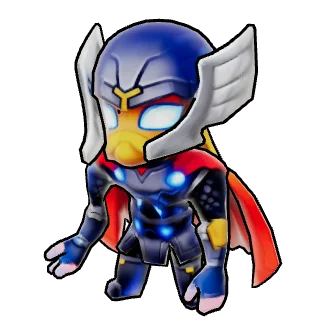
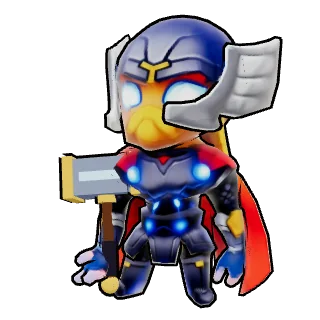
Brawl: Thor raises a hammer and calls lightning down instead of punching
- He carries a war hammer now (built in code, held in the right hand of his own model) and stands upright.
- His attack is no longer a swing: the arm goes up, a thread of lightning finds the hammer, and a bolt drops out of the sky onto his target
  and jumps to two more. He fights from range 3.5 and can hit flyers.
- Cut down to size: 1,500 health, 200 a bolt, arrival lightning 300 with a one second stun. In testing he wins about 70% against an
  ordinary card of his cost, down from 78%.
- New card picture with the hammer.

Claude-Session: https://claude.ai/code/session_01553PDU8sd3HscmWG3hFphE

diff --git a/brawl/rigs.js b/brawl/rigs.js
@@ -13,6 +13,7 @@ let rimFn = null; export const useRim = f => { rimFn = f; };
 const NATIVE = {m:2.2, l:4.0};            // how tall the two KayKit rigs stand, in their own units. Any other family is measured file by file.
 /* f: file. h: height on the field. fam: 'm' or 'l' = a KayKit rig that takes its clips from the shared library; none = the file has its own.
    walk / atk / idle / death / cheer: clip names. at: seconds one attack swing takes. rh / lh: what is in each hand. tint: recolour. fly: how high it hovers.
+   hold: something built from shapes for a T_ character's right hand (PROPS). raise: no swing; every attack lifts that hand to the sky instead.
    lift: how much of its own painted colour a dark model gives off, so it does not go to black in the shade. */
 const K = (f, h, atk, o = {}) => ({f, h, fam:'m', walk:'Walk', atk, ...o}), KL = (f, h, atk, o = {}) => ({f, h, fam:'l', walk:'Walk', atk, at:.85, ...o});
 const Q = (f, h, o = {}) => ({f, h, walk:'Walk', atk:'Punch', ...o}), R = (f, h, o = {}) => ({f, h, walk:'Walk', atk:'Attack', death:'Death', at:.7, ...o});
@@ -71,7 +72,7 @@ export const RIGS = {
   scald:T('Salamander', 1.7, {idle:'IdleB'}), razorback:T('LizardPunk', 1.5, {idle:'IdleB'}), kai:T('DragonKid', 1.35, {atk:'Kick', idle:'IdleB', at:.45}), spikeback:T('SpikeTurtle', 1.6), plum:F('PurpleDragon', 1.2, {atk:'Throw', at:.7, fly:1.3}),
   noir:S('CoatDuelist', 1.45, {atk:'Throw', idle:'IdleB', lift:.4}), onyx:S('HornNinja', 1.4, {atk:'Kick', idle:'IdleB', lift:.35}), midnight:T('HatRogue', 1.7, {idle:'IdleB', lift:.5}), prior:T('RedCultist', 1.9, {idle:'IdleB', lift:.4}),
   malgrave:F('PurpleWraith', 1.8, {atk:'Throw', at:.8, fly:1.2, lift:.4}), turnkey:F('KeyWraith', 1.9, {atk:'Throw', at:.9, fly:1.3, lift:.5}), auditor:T('HaloMan', 2.1, {lift:.55}), slagmaw:T('LavaDemon', 2.1, {idle:'IdleB', lift:.55}),
-  thor:T('Thor', 2.0, {idle:'IdleB', at:.55}), deathgod:T('Death', 2.5, {idle:'IdleB', lift:.6, at:.7}), zeus:C('Zeus', 2.1, {at:.8, lift:.3}),
+  thor:T('Thor', 2.0, {atk:'IdleB', hold:'hammer', raise:1}), deathgod:T('Death', 2.5, {idle:'IdleB', lift:.6, at:.7}), zeus:C('Zeus', 2.1, {at:.8, lift:.3}),
   nightmare:R('BlackHorse', 1.7, {walk:'Run', lift:.55, at:.6}), horseman:{f:'T_Horseman', h:2.5, gallop:true, lift:.4},
   jade:R('Dragon', 2.2, {lift:.25, at:.6, walk:'Idle', fly:1.6, flap:1}), emberwing:Q('Flying_Dragon', 1.2), elder:Q('Flying_Dragon_Evolved', 2.1), raptor:Q('Big_Dino', 1.5, {walk:'Run'}), kaiju:K('Monster', 1.7, 'Kick'), whelp:Q('Flying_Dragon', .7)
 };
@@ -79,6 +80,27 @@ const lib = {}, clips = {}, pending = {}, mats = new Map(), inks = new Map();
 let rack = null;                          // wp.glb: one named node per weapon
 const loader = new GLTFLoader(); loader.setMeshoptDecoder(MeshoptDecoder);
 const qa = new THREE.Quaternion(), qb = new THREE.Quaternion(), qc = new THREE.Quaternion(), va = new THREE.Vector3(), ZAX = new THREE.Vector3(0, 0, 1);
+/* Things a T_ character carries, built from shapes in the model's own units with the grip at the origin and the business end up +Y. top: how far up the head sits. */
+const pm = {}, pg = {};
+const PROPS = {
+  hammer(grad){                              // a war hammer: steel head with gold end caps and a strip of storm light, on a long wrapped handle
+    const mat = (k, c) => pm[k] || (pm[k] = k === 'glow' ? new THREE.MeshBasicMaterial({color:c}) : new THREE.MeshToonMaterial({color:c, gradientMap:grad}));
+    const geo = (k, f) => pg[k] || (pg[k] = f()), g = new THREE.Group();
+    const add = (gk, f, mk, c, y, z = 0, noInk) => { const m = new THREE.Mesh(geo(gk, f), mat(mk, c)); m.position.set(0, y, z); m.castShadow = true; m.frustumCulled = false; if (noInk) m.userData.noInk = true; g.add(m); return m; };
+    add('hShaft', () => new THREE.CylinderGeometry(.045, .052, .8, 10), 'wood', 0x6b4226, .17);
+    add('hWrap', () => new THREE.CylinderGeometry(.062, .062, .3, 10), 'wrap', 0x2e2a3a, -.03);
+    add('hPom', () => new THREE.SphereGeometry(.08, 10, 8), 'gold', 0xf2c14e, -.25);
+    add('hCol', () => new THREE.CylinderGeometry(.085, .085, .09, 10), 'gold', 0xf2c14e, .5);
+    add('hHead', () => new THREE.BoxGeometry(.32, .32, .58), 'steel', 0x8e9bb8, .68);
+    add('hCap', () => new THREE.BoxGeometry(.37, .37, .09), 'gold', 0xf2c14e, .68, .3); add('hCap', () => new THREE.BoxGeometry(.37, .37, .09), 'gold', 0xf2c14e, .68, -.3);
+    add('hGlow', () => new THREE.BoxGeometry(.335, .08, .4), 'glow', 0xbfeaff, .68, 0, true);
+    return {g, top:.68};
+  }
+};
+/* where a raised right arm points, in the body's own space (its right is -X, up is +Y, forward is +Z): out past a big head, then up */
+const ARM_UP = new THREE.Vector3(-.8, .58, .12).normalize(), FORE_UP = new THREE.Vector3(-.42, .9, .1).normalize(), vd = new THREE.Vector3();
+const UPR = new THREE.Quaternion().setFromAxisAngle(ZAX, .14).multiply(new THREE.Quaternion().setFromAxisAngle(new THREE.Vector3(0, 1, 0), Math.PI / 2));      // upright, head side on to the lane, tipped a little away from the body
+const smooth = x => x <= 0 ? 0 : x >= 1 ? 1 : x * x * (3 - 2 * x);
 /* how tall a model stands as loaded, and how far below (or above) its own origin its feet are: some files are built around their middle, not their feet.
    A skinned mesh is measured through its skeleton: its raw vertices can be in other units entirely. */
 const tb = new THREE.Box3(), tb2 = new THREE.Box3();
@@ -152,6 +174,8 @@ export function makeRig(key, o, grad, extras){
     const b = extras.bighead(); root.updateMatrixWorld(true);
     b.quaternion.copy(head.getWorldQuaternion(qa).invert()); b.position.copy(head.worldToLocal(head.getWorldPosition(va).add(new THREE.Vector3(0, .62 * sc, 0)))); b.scale.setScalar(1.1); b.userData.noInk = true; head.add(b);
   }
+  let prop = null, hand = null;
+  if (def.hold && PROPS[def.hold]){ root.traverse(n => { if (n.isBone && n.name === 'RightHand') hand = n; }); if (hand){ prop = PROPS[def.hold](grad); hand.add(prop.g); } }
   if (o && o.ink){
     const INK = inkFor(clamp(.021 / sc, .004, .2)), list = [];
     root.traverse(n => { if (!n.isMesh || !n.visible || Array.isArray(n.material)) return; for (let q = n; q && q !== root; q = q.parent) if (q.userData.noInk) return; list.push(n); });
@@ -194,15 +218,47 @@ export function makeRig(key, o, grad, extras){
   const ws = def.ws || (def.walk === 'Run' ? 1.9 : 1.05);        // the ground speed the walk clip was made for
   let cur = null, last = 0, lastAtk = 99;
   const go = (a, fade) => { if (cur === a) return; if (cur) cur.fadeOut(fade); a.reset().setEffectiveWeight(1).fadeIn(fade).play(); cur = a; };
-  idle.time = Math.random() * ic.duration; go(idle, 0);
-  return {g, h:H, fly, rig:true, die(){ if (death){ state = 'dead'; go(death, .08); } return !!death; }, cheer(){ if (cheer && state !== 'dead'){ state = 'cheer'; go(cheer, .15); } }, anim(t, s){
+  go(idle, 0);
+  /* Something held: stood upright in the hand as the idle clip has it, whatever way that bone's own axes point. With raise, an attack is not a swing:
+     the arm goes up and the thing in its hand is held to the sky. Bones are turned in the body's own space, so this works on any of these skeletons. */
+  const inBody = (b, out) => { out.identity(); for (let p = b; p && p !== root; p = p.parent) out.premultiply(p.quaternion); return out; };
+  let lift = null, tip = null;
+  if (prop){
+    mixer.update(0);                                                   // the idle pose, now
+    const fore = hand.parent, arm = fore.parent, pinv = new THREE.Quaternion();
+    prop.g.quaternion.copy(inBody(hand, qa).invert()).multiply(UPR); pinv.copy(prop.g.quaternion).invert();
+    prop.g.position.copy(vd.set(0, 1, 0).applyQuaternion(prop.g.quaternion)).multiplyScalar(-.04);      // the fist closes round the handle a little above its end
+    tip = v => { prop.g.updateWorldMatrix(true, false); return prop.g.localToWorld(v.set(0, prop.top, 0)); };
+    if (def.raise && fore.isBone && arm.isBone){
+      const chain = [arm, fore, hand].map(b => ({b, base:b.quaternion.clone(), out:b.quaternion.clone()})); let up = false;
+      const aim = (b, child, dir, k) => {                               // turn this bone so the next joint along lies in that direction
+        vd.copy(child.position).normalize().applyQuaternion(inBody(b, qa)); qb.setFromUnitVectors(vd, dir).multiply(qa);
+        b.quaternion.slerp(inBody(b.parent, qc).invert().multiply(qb), k); };
+      lift = a => {
+        const k = a < .16 ? smooth(a / .16) : a < .62 ? 1 : a < .95 ? 1 - smooth((a - .62) / .33) : 0;
+        if (k <= 0 && !up) return;
+        for (const j of chain){ if (!j.b.quaternion.equals(j.out)) j.base.copy(j.b.quaternion); j.b.quaternion.copy(j.base); }      // from where the clip has the arm, not from last frame's lift
+        if (k > 0){
+          aim(arm, fore, ARM_UP, k); aim(fore, hand, FORE_UP, k);
+          hand.quaternion.slerp(inBody(fore, qc).invert().multiply(qb.copy(UPR).multiply(pinv)), k);      // the hand: wherever it must be for the hammer to stand straight up
+        }
+        up = k > 0; for (const j of chain) j.out.copy(j.b.quaternion);
+      };
+    }
+  }
+  idle.time = Math.random() * ic.duration;
+  return {g, h:H, fly, rig:true, tip, die(){ if (death){ state = 'dead'; go(death, .08); } return !!death; }, cheer(){ if (cheer && state !== 'dead'){ state = 'cheer'; go(cheer, .15); } }, anim(t, s){
     const dt = Math.min(.1, Math.max(0, t - last)); last = t;
     if (state){ mixer.update(dt); return; }
-    if (s.atk < lastAtk){ if (cur === atk) atk.reset().play(); else go(atk, .06); }
-    lastAtk = s.atk;
-    if (s.atk >= at) go(s.mv && walk !== idle ? walk : idle, .14);
+    if (lift) go(s.mv && walk !== idle ? walk : idle, .14);            // he stands his ground: the arm does the work
+    else {
+      if (s.atk < lastAtk){ if (cur === atk) atk.reset().play(); else go(atk, .06); }
+      lastAtk = s.atk;
+      if (s.atk >= at) go(s.mv && walk !== idle ? walk : idle, .14);
+    }
     if (cur === walk) walk.timeScale = Math.max(.7, Math.min(2.4, (s.spd || 1.3) / ws)) * (s.chg ? 1.6 : 1);     // feet keep pace with the ground speed
     mixer.update(dt);
+    if (lift) lift(s.atk);
     if (wings.length){ flap(t, s.mv); root.position.y = y0 + Math.sin(t * 2.3 + idle.time) * .07; }
   }};
 }

diff --git a/brawl/view.js b/brawl/view.js
@@ -7,9 +7,9 @@ import { EffectComposer } from './vendor/postprocessing/EffectComposer.js';
 import { RenderPass } from './vendor/postprocessing/RenderPass.js';
 import { UnrealBloomPass } from './vendor/postprocessing/UnrealBloomPass.js';
 import { OutputPass } from './vendor/postprocessing/OutputPass.js';
-import { makeModel, basketball, M, TEAM, TX, outline } from './models.js?v=1115n';
-import { UNITS, MAPS, CARDS, TRAP_ART } from './cards.js?v=1115n';
-import { W, L, RIVER, TRIG, riverOf } from './sim.js?v=1115n';
+import { makeModel, basketball, M, TEAM, TX, outline } from './models.js?v=1115p';
+import { UNITS, MAPS, CARDS, TRAP_ART } from './cards.js?v=1115p';
+import { W, L, RIVER, TRIG, riverOf } from './sim.js?v=1115p';
 
 const PI = Math.PI, clamp = (v, a, b) => v < a ? a : v > b ? b : v, lerp = (a, b, t) => a + (b - a) * t;
 const angTo = (a, b, k) => { let d = (b - a) % (PI * 2); if (d > PI) d -= PI * 2; if (d < -PI) d += PI * 2; return a + d * k; };
@@ -750,7 +750,7 @@ export function createView(el, opt = {}){
   }
   function stepZaps(dt){ for (let i = zaps.length - 1; i >= 0; i--){ const z = zaps[i]; z.t += dt; const k = z.t / z.life; if (k >= 1){ root.remove(z.m); z.m.material.dispose(); zaps.splice(i, 1); continue; } z.m.material.opacity = .95 * (1 - k); const w = z.w * (1 + Math.sin(time * 90) * .35); z.m.scale.x = z.m.scale.y = w; } }
   /* lightning out of the sky onto one spot */
-  function strike(x, z, y = 0){ va.set(x + (Math.random() - .5) * 3, 16, z + (Math.random() - .5) * 3); vb.set(x, y + .2, z); const mid = va.clone().lerp(vb, .5); mid.x += (Math.random() - .5) * 1.6; mid.z += (Math.random() - .5) * 1.6; zapLine(va, mid, 0xfff7b0, .16, .3); zapLine(mid, vb, 0xfff7b0, .16, .3); flat(x, z, {r0:.3, r1:2, dur:.35, color:0xfff27a, add:true}); burst(x, .4, z, 22, 0xfff27a, {spd:6, up:4, life:.5}); shake(.4); }
+  function strike(x, z, y = 0, k = 1){ va.set(x + (Math.random() - .5) * 3, 16, z + (Math.random() - .5) * 3); vb.set(x, y + .2, z); const mid = va.clone().lerp(vb, .5); mid.x += (Math.random() - .5) * 1.6; mid.z += (Math.random() - .5) * 1.6; zapLine(va, mid, 0xfff7b0, .16 * k, .3); zapLine(mid, vb, 0xfff7b0, .16 * k, .3); flat(x, z, {r0:.3, r1:2 * k, dur:.35, color:0xfff27a, add:true}); burst(x, y + .4, z, Math.round(22 * k), 0xfff27a, {spd:6 * k, up:4 * k, life:.5}); shake(.4 * k * k); }      // k: a smaller bolt for an everyday attack
   const TRAIL = {fire:0xff8a2b, magic:0x6dff9a, beam:0xaad8ff, ball:0xffc27a, coffee:0xb07a4a, flag:0xffe27a, water:0x9fe0ff, laser:0xff5a8a, potion:0xff7ad0, leaf:0x7ccf4a, ink:0x5a3a8a, zap:0xfff27a, fball:0xff8a2b, met:0xff6a1f, bomb:0x8a8f9c, ice:0xbfe9ff, shell:0x8a8f9c, vial:0x8dff5a},
     HITC = {ball:0xffb070, coffee:0x8a5a34, flag:0xffe27a, water:0x8fd8ff, fire:0xff8a2b, magic:0x6dff9a, beam:0xdff2ff, arrow:0xe9d8b4, bolt:0xcfd5e2, laser:0xff5a8a, bullet:0xffe9a8, spit:0xd9f2c4, rock:0xa89a86, potion:0xff7ad0, leaf:0x7ccf4a, sting:0xffd23f, ink:0x5a3a8a, candy:0xff8a9a, bomb:0xff8a2b, zap:0xfff27a, fball:0xff8a2b, met:0xff6a1f, ice:0xdff5ff, shell:0xff8a2b, vial:0x7dff5a};
   function shoot(kind, from, to, dur, o = {}){
@@ -803,7 +803,7 @@ export function createView(el, opt = {}){
     for (const ev of list){
       if (ev.e === 'drop'){ if (ev.rar === 'l') legend(ev.x, ev.z); else if (ev.rar === 'g') legend(ev.x, ev.z, 0xdff4ff, 1.7); }
       else if (ev.e === 'chain'){ for (let i = 1; i < ev.pts.length; i++){ const a = ev.pts[i - 1], b = ev.pts[i]; va.set(a[0], a[2] ? 2.2 : .9, a[1]); vb.set(b[0], b[2] ? 2.2 : .9, b[1]); zapLine(va.clone(), vb.clone(), 0xbfe8ff, .06, .2); } }
-      else if (ev.e === 'bolt'){ for (const p of ev.pts) strike(p[0], p[1]); }
+      else if (ev.e === 'bolt'){ ev.pts.forEach((p, i) => { if (ev.q) setTimeout(() => strike(p[0], p[1], p[2] ? 2 : 0, i ? .5 : .7), i * 70); else strike(p[0], p[1]); }); }      // q: a hammer's bolts, one after another down the line
       else if (ev.e === 'godfall'){                                // a god has arrived: every enemy on the field is hit at once
         shake(1.1); skyT = .45; skyC = ev.k === 'smite' ? 1.5 : .7;
         ev.pts.forEach((p, i) => setTimeout(() => {
@@ -819,6 +819,11 @@ export function createView(el, opt = {}){
         if (U.splash && U.rng <= 1.5 && t){ flat(t.x, t.z, {r0:.3, r1:U.splash, dur:.35, color:0xffd28a, add:true, a:.7}); burst(t.x, .2, t.z, 12, 0xffd28a, {spd:4, up:2, life:.4}); shake(.25); }
       } else if (ev.e === 'shot'){
         const r = recs.get(ev.id), t = recs.get(ev.t); if (!r || !t) continue;
+        if (ev.k === 'sky'){                                       // nothing flies: the hammer goes up, a thread of lightning finds it, and the bolts land with the hit
+          setTimeout(() => { if (recs.get(ev.id) !== r) return; const p = r.m.tip ? r.m.tip(new THREE.Vector3()) : new THREE.Vector3(r.x, r.m.h + .6, r.z);
+            zapLine(new THREE.Vector3(p.x + (Math.random() - .5) * 1.4, 15, p.z + (Math.random() - .5) * 1.4), p, 0xbfe8ff, .05, .24); burst(p.x, p.y, p.z, 10, 0xdff4ff, {spd:3, up:1.5, life:.35}); }, 190);
+          continue;
+        }
         const U = r.e.U, th = t.m.h * .5 + (t.m.fly || 0);
         va.set(r.x, U.twr ? (r.e.key === 'king' ? 3.6 : 2.6) : r.m.h * .7 + (r.m.fly || 0), r.z); vb.set(t.x, th, t.z);
         burst(va.x, va.y, va.z, 4, 0xfff1c4, {spd:1.6, up:.6, life:.2, grav:0});

diff --git a/brawl/main.js b/brawl/main.js
@@ -1,11 +1,11 @@
 /* Break Room Brawl: screens, saves, the match loop and online play. Rules live in sim.js, drawing in view.js. */
 import { CARDS, CARD_IDS, BASE_IDS, baseName, baseOf, UNITS, AFF, AFF_IDS, RAR, RAR_IDS, TYPES, TYPE_IDS, typeBonus, typeCount, SET_AT, SET_MUL, ROLE_NAME, MAPS, MAP_IDS, DECK_SIZE, HAND, MAX_LEGEND, MAX_GOD, DECK_SLOTS, MAX_LVL, START_COINS, FREE_RARES,
-  lvlMul, upgradeCost, deckProblem, DRAW_W, weightedPick, rollCard, crateRoll, STARTER_DECKS, SKILLS, randomCpu, ladderCpu, levelPrize, tierOf, LEVELS, TIERS, PACKS, TYPE_PACK, openPack, THEME_DECKS, PERKS, PERK_IDS, unitsOf } from './cards.js?v=1115n';
-import { createSim, decodeEnts, decodeTraps, canPlace, DT, MAX_EL, manaRate, PATIENT, TRIG } from './sim.js?v=1115n';
-import { createAI } from './ai.js?v=1115n';
-import { Accounts, fresh, sanitize, isOwner } from './store.js?v=1115n';
-import { Cloud, cloudWhy } from './cloud.js?v=1115n';
-import { sayFor, sayWhen } from './talk.js?v=1115n';
+  lvlMul, upgradeCost, deckProblem, DRAW_W, weightedPick, rollCard, crateRoll, STARTER_DECKS, SKILLS, randomCpu, ladderCpu, levelPrize, tierOf, LEVELS, TIERS, PACKS, TYPE_PACK, openPack, THEME_DECKS, PERKS, PERK_IDS, unitsOf } from './cards.js?v=1115p';
+import { createSim, decodeEnts, decodeTraps, canPlace, DT, MAX_EL, manaRate, PATIENT, TRIG } from './sim.js?v=1115p';
+import { createAI } from './ai.js?v=1115p';
+import { Accounts, fresh, sanitize, isOwner } from './store.js?v=1115p';
+import { Cloud, cloudWhy } from './cloud.js?v=1115p';
+import { sayFor, sayWhen } from './talk.js?v=1115p';
 import { openTransport } from '../chess/net.js';
 
 const $ = id => document.getElementById(id), Q = new URLSearchParams(location.search), BDB = window.BDB;
@@ -57,6 +57,7 @@ const SND = {drop:() => tone(190, .14, 'triangle', .09, -90), spell:() => tone(5
   trapSet:() => tone(150, .1, 'triangle', .07, -50), trap:() => { tone(880, .07, 'square', .045); tone(1320, .16, 'square', .045, 0, .07); tone(110, .3, 'sawtooth', .06, -40, .05); }, negate:() => { tone(1700, .09, 'sine', .07); tone(1500, .32, 'sine', .07, -700, .1); },
   rip:() => { tone(900, .16, 'sawtooth', .05, -700); tone(140, .3, 'triangle', .08, -60, .08); [660, 880, 1175].forEach((f, i) => tone(f, .22, 'triangle', .05, 0, .16 + i * .07)); },
   legend:() => { [392, 523, 659, 784, 1046].forEach((f, i) => tone(f, .5, 'triangle', .07, 0, i * .09)); tone(98, .9, 'sawtooth', .06, -30); },
+  crack:() => { tone(1500, .07, 'sawtooth', .035, -1200); tone(80, .22, 'sawtooth', .05, -35, .03); },
   god:() => { tone(55, 1.6, 'sawtooth', .1, -18); tone(82, 1.2, 'square', .05, -40, .05); [262, 392, 523, 784, 1046, 1568].forEach((f, i) => tone(f, .9, 'triangle', .07, 0, .1 + i * .11)); tone(1800, .25, 'sawtooth', .04, -1500, .02); }};
 
 /* ---------- the 3D view (menus work without it: card art is a set of pictures) ---------- */
@@ -65,7 +66,7 @@ const NOVIEW = Q.get('noview') === '1';
 async function initView(){
   if (NOVIEW) return;
   try {
-    const [vw, md] = await Promise.all([import('./view.js?v=1115n'), import('./models.js?v=1115n')]);
+    const [vw, md] = await Promise.all([import('./view.js?v=1115p'), import('./models.js?v=1115p')]);
     await md.preload(); MD = md;
     V = vw.createView($('arena'), {low:SMALL, reduced:BDB.reduced, numbers:true, pid:() => B ? B.me : -1, gfx:Q.get('gfx') != null ? +Q.get('gfx') : null, onGfx:() => { if (curTab === 'Profile' && !B) gfxUI(); }});
     ready3d = true;
@@ -208,6 +209,7 @@ function abil(U, m = 1){
   if (U.burn) a.push(`Sets targets on fire: ${d(U.burn.dps)} a second for ${sec(U.burn.t)}.`);
   if (U.psn) a.push(`Poisons targets: ${d(U.psn.dps)} a second for ${sec(U.psn.t)}.`);
   if (U.mark) a.push(`Marks targets for ${sec(U.mark.t)}. Marked targets take 30% more damage from everyone.`);
+  if (U.shot === 'sky') a.push('Does not swing: the hammer goes up and a bolt drops out of the sky onto the target, flyers included.');
   if (U.chain) a.push(`Each attack jumps to ${U.chain.n} more ${U.chain.n === 1 ? 'target' : 'targets'}.`);
   if (U.steal) a.push(`Heals itself for ${pc(U.steal)} of the damage it deals.`);
   if (U.leech) a.push('Every hit on a tower steals Mana for you.');
@@ -835,6 +837,7 @@ function onEvents(ev){
       else e.e === 'drop' ? SND.drop() : SND.spell();
       if (c && e.e === 'drop' && e.u && c.kind === 'unit' && (c.rar !== 'c' || Math.random() < .6)){ const uid = e.u, line = sayFor(c.base, c.type), mine = e.team === B.team, big = c.rar === 'l' || c.rar === 'e' || c.rar === 'g'; setTimeout(() => { if (B && !B.over) bubble(uid, line, mine, big); }, 420); }
     } else if (e.e === 'boom' && e.k !== 'rage') SND.boom();
+    else if (e.e === 'bolt' && e.q) SND.crack();
     else if (e.e === 'grow'){ if (Math.random() < .45) bubble(e.id, sayWhen('kill'), true); }
     else if (e.e === 'revive'){ bubble(e.id, sayWhen('low'), true); }
     else if (e.e === 'trapset'){ if (e.team === B.team) SND.trapSet(); else { note(B.mode === 'cpu' ? 'He set a trap' : 'They set a trap'); if (B.mode === 'cpu') talk(TALK.trapSet); } }

diff --git a/brawl/sim.js b/brawl/sim.js
@@ -1,12 +1,12 @@
 /* Break Room Brawl: the battle rules. No DOM, no drawing. One sim runs per match (on the host when online);
    screens read its entities and events. Team 0 defends z > 0, team 1 defends z < 0. */
-import { UNITS, CARDS, MAPS, lvlMul, unitVar, HAND, AFF_IDS, typeBonus } from './cards.js?v=1115n';
+import { UNITS, CARDS, MAPS, lvlMul, unitVar, HAND, AFF_IDS, typeBonus } from './cards.js?v=1115p';
 
 export const TPS = 20, DT = 1 / TPS, W = 9, L = 21, RIVER = 1;      // a long field: more ground to cover, more time to react
 export const riverOf = map => map.river ? map.rw || RIVER : 0;      // how far the river reaches either side of the halfway line: a painted map brings its own
 export const MATCH = 600, OVERTIME = 60, MANA_STEP = 120, MAX_EL = 10, SIGHT = 6.5, HELP = 9.5;   // a 10 minute match. Mana comes in faster every two minutes: x1, x1.5, x2, x2.5, then x3 for the last two
 export const TOWER_AT = [['king', 0, L - 3], ['princess', -5.5, L - 6.5], ['princess', 5.5, L - 6.5]];
-const DEPLOY = TPS, PROJ_SPD = 11;
+const DEPLOY = TPS, PROJ_SPD = 11, SKY_WIND = .45;      // SKY_WIND: how long a hammer is in the air before the sky answers it
 export const PATIENT = 3 * TPS;
 export const MAX_TRAPS = 3, TRIG = 1.1;            // traps each player can have face down at once, and how close a troop has to step to spring one
 const clamp = (v, a, b) => v < a ? a : v > b ? b : v;
@@ -274,7 +274,7 @@ export function createSim({map:mapId, decks, seed = 1, elMul = [1, 1], towerLvl 
     const p = {tgt:t.id, x:t.x, z:t.z, dmg, splash:U.splash || 0, team:e.team, air:!!U.air, src:e.id, u:U, lv:lvlMul(e.lvl), st};
     if (U.eject && e.hits % U.eject.every === 0 && !t.U.bld && t.U.r < .9) p.eject = 1;      // red card
     if (U.shot && U.rng > 1.5){
-      const d = U.shot === 'shell' ? 1.3 : clamp((gap(e, t) + e.U.r) / PROJ_SPD, .14, .9);      // a mortar shell goes up before it comes down
+      const d = U.shot === 'sky' ? SKY_WIND : U.shot === 'shell' ? 1.3 : clamp((gap(e, t) + e.U.r) / PROJ_SPD, .14, .9);      // nothing flies from a raised hammer: the bolt lands when it lands. A mortar shell goes up before it comes down
       p.t = T(U.shot === 'beam' || U.shot === 'zap' ? .08 : d);
       emit({e:'shot', id:e.id, t:t.id, d:U.shot === 'beam' || U.shot === 'zap' ? .08 : d, k:U.shot});
     } else { p.t = T(U.wind ?? .24); p.melee = 1; }       // a melee hit lands when the swing does, and not at all if the attacker drops first
@@ -309,15 +309,17 @@ export function createSim({map:mapId, decks, seed = 1, elMul = [1, 1], towerLvl 
       if (u.leech && t.U.twr){ const pl = players[src.pid]; if (pl){ pl.el = Math.min(MAX_EL, pl.el + u.leech); emit({e:'mana', id:src.id, amt:u.leech, pid:src.pid, steal:1}); } }
     }
     if (p.eject && t.hp > 0 && !t.U.twr){ t.x = clamp(t.x * .45, -2.6, 2.6); t.z = (t.team === 0 ? 1 : -1) * (L - 5.6); t.frz = Math.max(t.frz, T(1)); t.tgt = 0; t.lock = false; t.run = 0; t.chg = false; t.lp = 0; emit({e:'warp', id:t.id, x:t.x, z:t.z}); }      // sent off: back to its own king tower
-    if (u.chain){                                                           // the bolt jumps on to whoever is nearest, a little weaker each time
+    const sky = u.shot === 'sky';
+    if (u.chain || sky){                                                    // the bolt jumps on to whoever is nearest, a little weaker each time
       const done = new Set([t.id]), pts = [[t.x, t.z, t.U.fly ? 1 : 0]]; let from = t, d = p.dmg;
-      for (let i = 0; i < u.chain.n; i++){
+      for (let i = 0; i < (u.chain ? u.chain.n : 0); i++){
         let nx = null, nd = u.chain.r;
         for (const o of ents){ if (o.team === p.team || o.hp <= 0 || o.dep > 0 || o.hid || done.has(o.id) || (o.U.fly && !p.air)) continue; const q = Math.hypot(o.x - from.x, o.z - from.z); if (q <= nd){ nd = q; nx = o; } }
         if (!nx) break;
         d *= u.chain.fall; done.add(nx.id); pts.push([nx.x, nx.z, nx.U.fly ? 1 : 0]); hurt(nx, d, src); afflict(nx, u, p.lv, src, p.st); from = nx;
       }
-      if (pts.length > 1) emit({e:'chain', pts});
+      if (sky) emit({e:'bolt', pts, q:1});                                // called down from the sky: every one of them gets a bolt of its own
+      else if (pts.length > 1) emit({e:'chain', pts});
     }
   }
   /* a unit finishes dropping in: whatever it does on arrival happens now */

diff --git a/brawl/cards.js b/brawl/cards.js
@@ -270,7 +270,7 @@ const ROSTER = [
   ['mascot', 'The Mascot', 'crew', 'r', 'giant', 5, 1, {}, 'Huge, slow and only interested in buildings. Protect him and towers fall.'],
   ['bdb', 'Five-Star BDB', 'crew', 'l', 'tank', 6, 1, {splash:1.7, dm:1.81, hm:1.26, rng:1, spd:1.2, r:.9, land:{r:2.6, dmg:140, push:1}}, 'The prospect himself. Huge health, a landing that clears space, and a slam that hits everything around him.'],
   /* ----- Gods: one to a deck, and each does something to the whole field ----- */
-  ['thor', 'Thor, God of Thunder', 'order', 'g', 'bruiser', 7, 1, {smite:{dmg:400, stun:1.5, twr:.4}, chain:{n:4, r:3.4, fall:.85}, stun:{every:3, t:.8}, hm:.952, dm:1.1, r:.7, spd:1.45}, 'He arrives and lightning hits every enemy on the field at once, wherever it stands, and stops it dead for a moment. After that his fists carry the storm: every blow jumps to four more.'],
+  ['thor', 'Thor, God of Thunder', 'order', 'g', 'caster', 7, 1, {smite:{dmg:300, stun:1, twr:.3}, chain:{n:2, r:3, fall:.6}, stun:{every:4, t:.6}, splash:0, shot:'sky', rng:3.5, hm:2.52, dm:.866, r:.7, spd:1.3}, 'He arrives and lightning hits every enemy on the field at once, wherever it stands, and stops it dead for a moment. After that he fights from where he stands: up goes the hammer, and a bolt drops out of the sky onto his target and jumps to two more.'],
   ['deathgod', 'Death', 'dark', 'g', 'bruiser', 7, 1, {reap:.25, land:{r:3.4, summon:{u:'skel', n:20}}, raise:{u:'skel', r:99, max:26, cd:.5}, splash:1.3, hm:1.05, dm:.75, r:.75, spd:1.15}, 'Arrives in a ring of twenty skeletons, and every enemy troop on the field loses a quarter of its health on the spot. From then on whatever dies, anywhere, on either side, gets up as one of his.'],
   ['zeus', 'Zeus, King of Olympus', 'arcane', 'g', 'sniper', 7, 1, {land:{r:99, shield:150, rage:5}, wrath:{every:6, first:2.5, dmg:300, r:1.5}, chain:{n:2, r:3, fall:.6}, hm:1.7, dm:.8, r:.6, shot:'zap'}, 'His arrival shields every troop you have, wherever it is, and sends them all into a rage. Every six seconds a bolt from the sky finds the biggest enemy on the field, and his own thunderbolts jump to two more.'],
   /* ----- Dragon ----- */

diff --git a/brawl/talk.js b/brawl/talk.js
@@ -215,7 +215,7 @@ const S = {
   auditor:"I have some questions.|Your Mana. It is not adding up.|This will take a while.|Per section four. You lose.|Receipts. Now.|Everything slows down for an audit.",
   /* ----- Dragon ----- */
   infernus:"Kneel before the flame.|I land. Everything burns.|You brought an army. I brought fire.|Roast everyone.|The sky was mine. Now the ground is too.|Ash is all you will be.",
-  thor:"Thunder first. Questions never.|Everybody on the field just got a letter from me.|Hands up if you felt that. Good, all of you.|I do not knock. I strike.|Storm is here. So am I.|Stand still. It hurts the same either way.",
+  thor:"Thunder first. Questions never.|Everybody on the field just got a letter from me.|Hammer goes up. You go down.|I do not knock. I strike.|Storm is here. So am I.|I point. The sky does the rest.",
   deathgod:"Everyone comes to me in the end. You are early.|Twenty friends, and room for more.|A quarter of you is already mine.|Do not run. You will only die tired.|Whatever falls today works for me tomorrow.|It is not personal. It never is.",
   zeus:"Kneel, or be found. The bolt does not miss.|Olympus sends its regards, all at once.|My side is blessed. Yours is being watched.|I was old when your towers were sand.|Biggest one first. That is you.|A king does not visit. He reigns.",
   jade:"Look up. Last thing you will do.|Green means go. Go burn.|I do not land. I arrive.|Everything under me is toast.|Bow or bake. Your call.|Rawr. That was the warning.",

diff --git a/brawl/store.js b/brawl/store.js
@@ -1,7 +1,7 @@
 /* Break Room Brawl: player accounts.
    A player is a named save on this device (localStorage), with a save code to carry it to another device, and an online copy when they have an account (cloud.js).
    Everything that reads a save goes through sanitize(), so a bad or old save can never break the game: it is repaired or brought up to date instead. */
-import { CARDS, STARTERS, DECK_SLOTS, DECK_SIZE, MAX_LEGEND, MAX_GOD, MAX_LVL, START_COINS, LEVELS, PERKS, PERK_IDS, OLD_BASE, OLD_AFF } from './cards.js?v=1115n';
+import { CARDS, STARTERS, DECK_SLOTS, DECK_SIZE, MAX_LEGEND, MAX_GOD, MAX_LVL, START_COINS, LEVELS, PERKS, PERK_IDS, OLD_BASE, OLD_AFF } from './cards.js?v=1115p';
 
 const KEY = 'brawl-accounts-v2';
 function sum(s){ let h = 2166136261; for (let i = 0; i < s.length; i++){ h ^= s.charCodeAt(i); h = Math.imul(h, 16777619); } return (h >>> 0).toString(36); }

diff --git a/brawl/cloud.js b/brawl/cloud.js
@@ -1,7 +1,7 @@
 /* Break Room Brawl: online accounts, cloud saves, who's online and invites, through the SQL functions in supabase.sql.
    Everything is a plain fetch to Supabase's REST endpoint; no SDK. Every call can fail (offline, server not set up yet):
    callers catch that and the game carries on with the copy saved on this device. */
-import { SUPABASE_URL, SUPABASE_KEY } from './config.js?v=1115n';
+import { SUPABASE_URL, SUPABASE_KEY } from './config.js?v=1115p';
 
 const base = (new URLSearchParams(location.search).get('api') || SUPABASE_URL || '').replace(/\/+$/, '');
 const SKEY = 'brawl-session';

diff --git a/brawl/ai.js b/brawl/ai.js
@@ -1,7 +1,7 @@
 /* Break Room Brawl: the CPU. It plays through the same sim.play() a person does and sees nothing a person cannot:
    no hidden traps, no cloaked assassins, not the other side's hand or Mana. prof: {react, hold, derp, smart} from cards.js. */
-import { CARDS, lvlMul } from './cards.js?v=1115n';
-import { TPS, W, L, riverOf, manaRate } from './sim.js?v=1115n';
+import { CARDS, lvlMul } from './cards.js?v=1115p';
+import { TPS, W, L, riverOf, manaRate } from './sim.js?v=1115p';
 
 const clamp = (v, a, b) => v < a ? a : v > b ? b : v;
 

diff --git a/brawl/models.js b/brawl/models.js
@@ -2,8 +2,8 @@
    makeModel(key, team, opts) -> {g, h, fly, turret, anim(t, s)}.  Models face +z.
    s = {mv, ph, atk, chg, aim}: moving, walk phase, seconds since the last attack, charging, turret yaw. */
 import * as THREE from 'three';
-import { AFF, UNITS } from './cards.js?v=1115n';
-import { needRigs, hasRig, makeRig, useRim } from './rigs.js?v=1115n';
+import { AFF, UNITS } from './cards.js?v=1115p';
+import { needRigs, hasRig, makeRig, useRim } from './rigs.js?v=1115p';
 
 const PI = Math.PI;
 export const TEAM = [0x3d8bff, 0xff4b47];

diff --git a/brawl/index.html b/brawl/index.html
@@ -948,6 +948,6 @@ button.foil:hover{transform:translateY(-6px) rotate(-2deg)}
 <div class="k-modal" id="sheet" hidden><div class="k-box" id="sheetBox"></div></div>
 <div class="k-modal" id="dlg" hidden><div class="k-box" id="dlgBox"></div></div>
 
-<script type="module" src="main.js?v=1115n"></script>
+<script type="module" src="main.js?v=1115p"></script>
 </body>
 </html>
